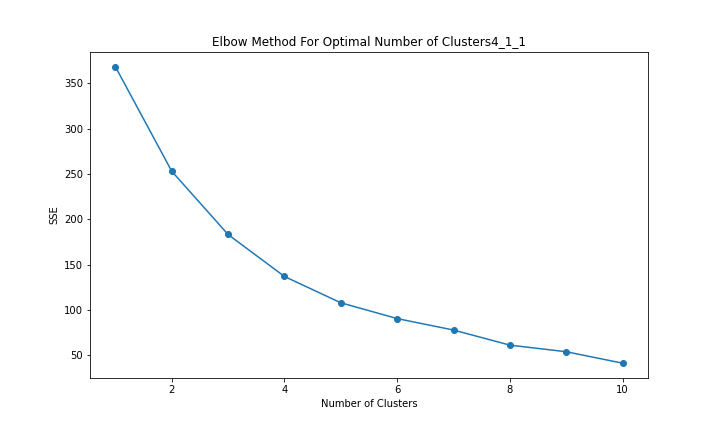
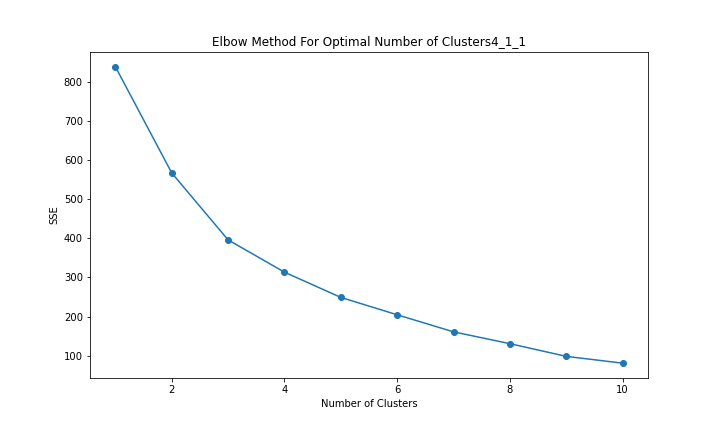
clsuter

diff --git a/strategy_wide.py b/strategy_wide.py
@@ -47,7 +47,7 @@ def plot_dendrogram(model, **kwargs):
     linkage_matrix = np.column_stack([model.children_, model.distances_, counts]).astype(float)
     dendrogram(linkage_matrix, **kwargs)
 #%%
-fname = 'strategy_wide/strategy_wide_3.csv'
+fname = 'strategy_wide/strategy_wide_4.csv'
 fnum = re.sub(r"\D","",fname)
 df = pd.read_csv(fname)
 df2 = df.copy()
@@ -75,12 +75,12 @@ for j in range(len(df.columns)//15):
     df_ct = df_ct.dropna()
     for i in range(len(df_ct.columns)//5):
         df_ctt = df_ct.iloc[:,i*5:i*5+5]
-        if any(df_ctt.columns.values[0] == col for col in clus3col):
-            p = 3
-        elif any(df_ctt.columns.values[0] == co for co in clus2col):
-            p = 2
-        else:
-            p = 2
+        # if any(df_ctt.columns.values[0] == col for col in clus3col):
+        #     p = 3
+        # elif any(df_ctt.columns.values[0] == co for co in clus2col):
+        #     p = 2
+        # else:
+        #     p = 2
         # X_distance = gower.gower_matrix(df_t)
         model = AgglomerativeClustering(distance_threshold=0,n_clusters=None)
         # model = AgglomerativeClustering(distance_threshold=0,n_clusters=None)
@@ -130,19 +130,21 @@ for j in range(len(df.columns)//15):
         df_tt2['cluster'+str(k)]=model.labels_
         df_cl = pd.merge(df_cl,df_tt['cluster'+str(k)],how='left',left_index=True,right_index=True)
         df_cl_cr = pd.merge(df_cl_cr,df_tt2,how='left',left_index=True,right_index=True)
-        print(k)
+        print(k,p)
         k = k+1
 fnum = re.sub(r"\D","",fname)
+print(data_dict)
 df_cl_cr.to_csv('strategy_wide/cluster_strategy_wide_'+fnum+'.csv')
+
 #%%%%%%%%%%%%
-df1 = pd.read_csv('monsakun_log_03.csv')
-fname = 'strategy_wide/cluster_strategy_wide_3.csv'
+df1 = pd.read_csv('monsakun_log_04.csv')
+fname = 'strategy_wide/cluster_strategy_wide_4.csv'
 df2 = pd.read_csv(fname)
 df1 = df1[df1['ope1']=='CHECK']
 df1['No']=range(0,len(df1.index))
 df2 = df2.filter(regex ='^(cluster|InputID)',axis=1)
 fnum = re.sub(r'\D', '', fname)
-df4 = df.iloc[0:0]
+df4 = df1.iloc[0:0]
 for i in range(3):
     df1c = df1.copy()
     df1c = df1c[df1c['lv']==i+1]
@@ -172,4 +174,44 @@ for i in range(1,4):
 
 # df3 = pd.merge(df1,df2,how='left',on='InputID')
 # print(df2[['InputID','cluster0']])
+#%%%%%%%%%%%%%%%%%%%%%%%%%%%%
+from io import StringIO
+import plotly.graph_objects as go
 #%%%
+df4_1 = df4[['InputID','lv','cluster']].drop_duplicates()
+df7 = df4.pivot_table(index='InputID',columns='lv',values='cluster')
+df7 = df7.sort_values(by=[1,2,3])
+df7[1]=df7[1].astype(pd.Int64Dtype(),errors='ignore')
+df7[2]=df7[2].astype(pd.Int64Dtype(),errors='ignore')
+df7[3]=df7[3].astype(pd.Int64Dtype(),errors='ignore')
+df7[1]='1_'+df7[1].astype(str)
+df7[2]='2_'+df7[2].astype(str)
+df7[3]='3_'+df7[3].astype(str)
+df7 = df7.stack()
+# df7.reset_index(inplace=True)
+df8 = df7.reset_index()
+df8 = df8[['InputID',0]]
+df8['to']=df8[0].shift(-1)[df8['InputID']==df8['InputID'].shift(-1)].dropna()
+df8 = df8.rename(columns={0:'from'}).drop(columns=['InputID'])
+df8 = df8.dropna()
+df8 = df8.groupby(['from','to']).size().reset_index(name='value')
+# df7['to'] = df7[0].shift(-1)[df7['ID'] == df7['ID'].shift(-1)].dropna()
+#%%%%%%%%%%%%%%%%%%%%%%%%%%%%%%%%%%%%
+src,tgt,val = df8['from'].values,df8['to'].values,df8['value'].values
+
+lbl = {e:i for i,e in enumerate(sorted(set(src) | set(tgt)))}
+
+src = [lbl[e] for e in src]
+tgt = [lbl[e] for e in tgt]
+lbl = list(lbl.keys()) # 店名＝ノード名
+
+# 描画
+fig = go.Figure([go.Sankey(
+    node = dict( pad = 15, thickness = 20,
+        line = dict(color = "black", width = 1),
+        label = lbl, color = "blue" ),
+    link = dict( source = src, target = tgt, value = val))])
+fig.show()
+
+fig.write_image('strategy_wide/sankey_day'+str(fnum)+'.png')
+# %%
